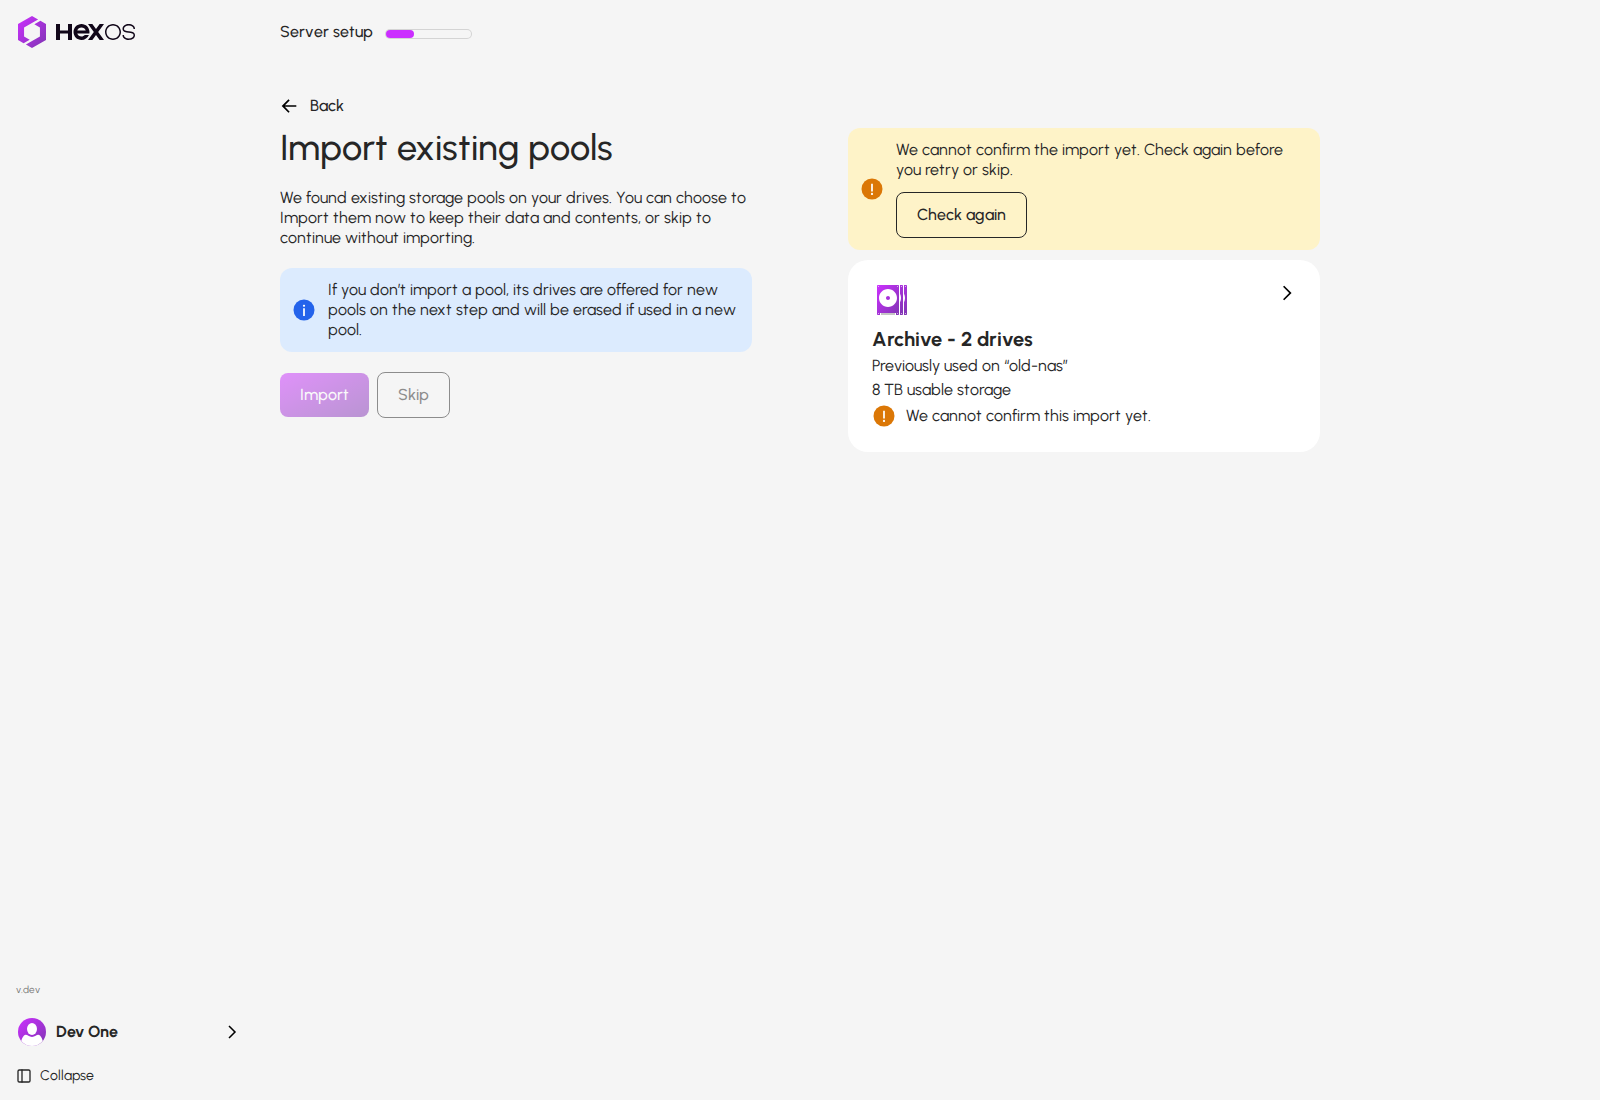
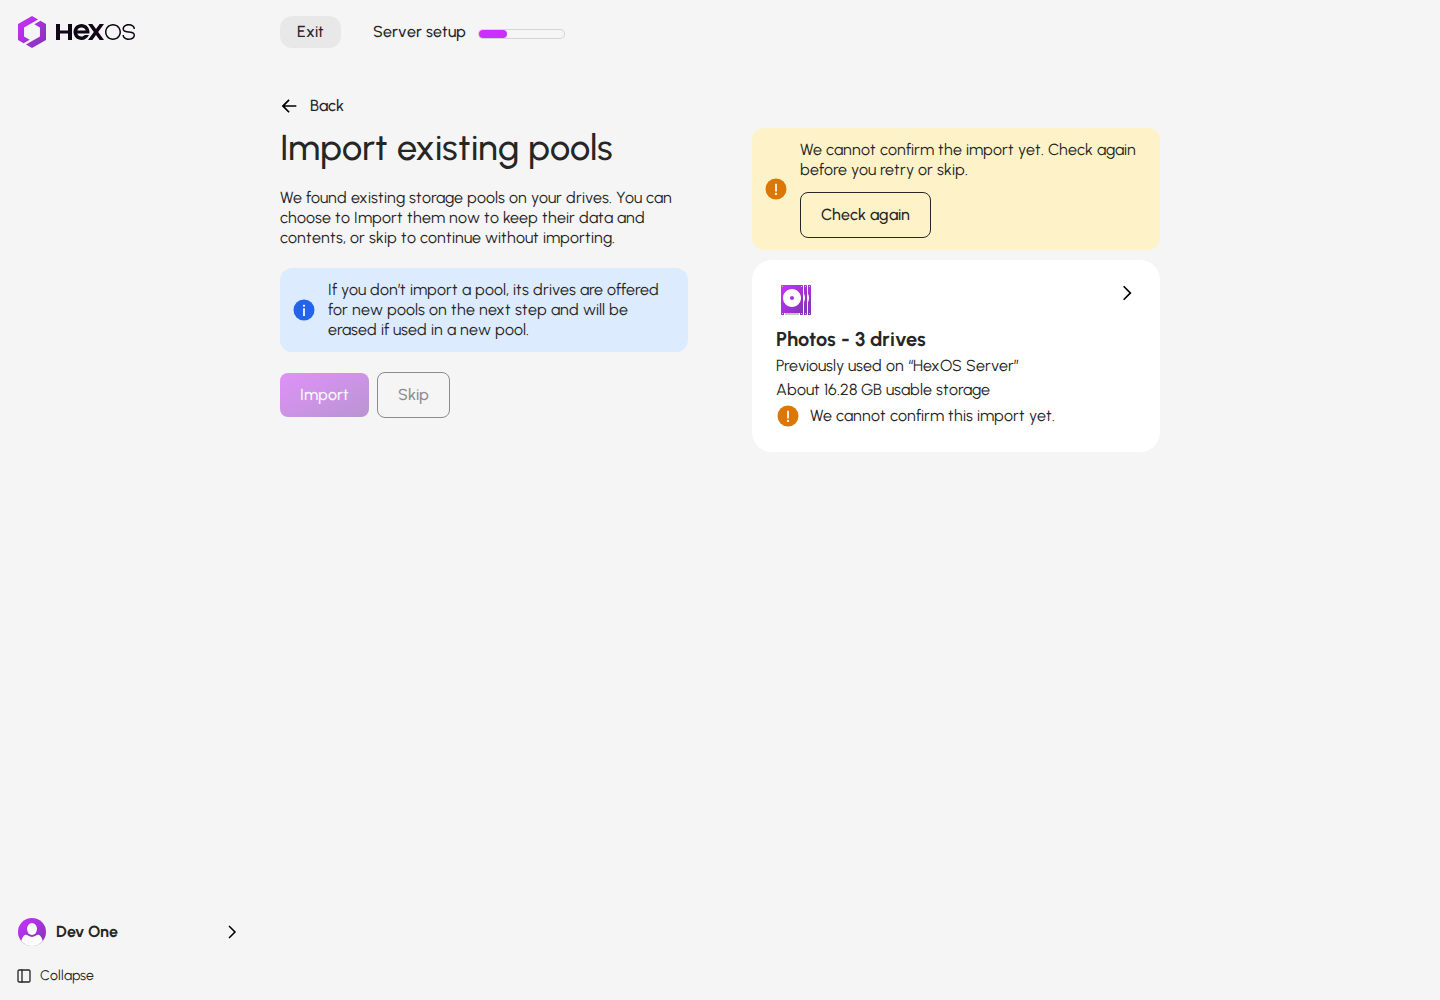
docs: align recovery and pool import guides with released fixes

diff --git a/features/folders/encryption.md b/features/folders/encryption.md
@@ -2,7 +2,7 @@
 title: Encrypted folders
 description: What folder encryption protects, how the key is kept, locking, unlocking and restoring encrypted folders
 published: true
-date: 2026-10-13T00:00:00.000Z
+date: 2026-11-17T21:30:00.000Z
 tags: folders, encryption
 editor: markdown
 dateCreated: 2026-10-07T00:00:00.000Z
@@ -18,8 +18,14 @@ When managed encryption is available for your signed-in HexOS account, the folde
 
 Each encrypted folder uses one of two ways to keep its key:
 
-- **Autogenerated (recommended):** "HexOS keeps a copy of the key that only your sign-in can open." With **End-to-end encryption**, that copy also needs your recovery key. The folder unlocks by itself when your server starts.
+- **Autogenerated (recommended):** the folder unlocks by itself when your server starts. With **Managed** recovery, your HexOS sign-in can open the saved key copy. With **End-to-end encryption**, only your recovery key can open that copy. Keep your emergency kit safe.
 - **Passphrase:** "Enter it after every restart. If it's lost, nobody can open the folder." You choose a passphrase of at least 8 characters.
+
+<details>
+<summary> Autogenerated encryption when you keep the recovery key </summary>
+
+![encryption-owner-kept-key.png](/features/folders/images/encryption-owner-kept-key.png){.medium .framed}
+</details>
 
 A folder can also be left unencrypted (**Don't encrypt**). The choice says **Leave encryption off for this folder**. An unencrypted folder can only back up to your own servers.
 
@@ -163,7 +169,7 @@ Folders encrypted before autogenerated keys existed use a passphrase, just like 
 
 ## Restore an encrypted folder
 
-**From a backup.** A restored encrypted folder arrives locked. With an autogenerated key it unlocks by itself while you are signed in. With a passphrase, HexOS asks for it. If you keep the server's recovery key yourself, HexOS asks for it once. The steps are in [Restore a folder](/features/backups/restore-a-folder#unlocking-the-restored-folder).
+**From a backup.** A restored encrypted folder arrives locked. With an autogenerated key and **Managed** recovery, it normally unlocks while you are signed in. If you kept the original server's recovery key yourself, have its emergency kit ready. HexOS asks for a recovery key or a passphrase if it needs one. The steps are in [Restore a folder](/features/backups/restore-a-folder#unlocking-the-restored-folder).
 
 **After reinstalling HexOS or importing a pool.** When HexOS finds folders on your pools that are not set up in HexOS yet, the **Folders** screen shows **Found 2 folder(s) on your pools** (with your number) and a **Restore folders** button.
 
@@ -175,7 +181,7 @@ Folders encrypted before autogenerated keys existed use a passphrase, just like 
 
 1. Click **Restore folders**.
 2. Each locked folder shows what it needs:
-    - A folder with an autogenerated key says it is **Encrypted and locked**, and it unlocks with your HexOS account when you restore it. There is nothing to type. If you keep your recovery key yourself, HexOS asks for it once (see [When HexOS asks for a recovery key](/features/folders/recovery-key#when-hexos-asks-for-a-recovery-key)).
+    - A folder with an autogenerated key says it is **Encrypted and locked**, and it unlocks when you restore it. If you kept the original server's recovery key yourself, have that server's emergency kit ready. HexOS asks for its recovery key if needed (see [When HexOS asks for a recovery key](/features/folders/recovery-key#when-hexos-asks-for-a-recovery-key)).
     - A folder with a passphrase says it is **Encrypted and locked** and asks for the passphrase. Typing it selects the folder.
     - A folder encrypted with a key file made in TrueNAS says it **Cannot be restored**, because its key was stored on the previous system. Unlock it in TrueNAS with the key you exported, as described in [Import pools to HexOS](/troubleshooting/migrating/import-existing-pools) under "Import keys for encrypted data".
 3. Check that each folder you want to restore is selected, then click **Restore**.

diff --git a/features/backups/restore-a-folder.md b/features/backups/restore-a-folder.md
@@ -2,7 +2,7 @@
 title: Restore a folder
 description: Bring a backed-up folder back onto your server as a new folder, from the latest copy or any restore point
 published: true
-date: 2026-11-15T00:00:00.000Z
+date: 2026-11-17T21:30:00.000Z
 tags: backups, buddy, restore, passphrase
 editor: markdown
 dateCreated: 2026-08-23T12:07:27.379Z
@@ -25,7 +25,7 @@ Only you can restore your own backups. The buddy who stores your copy cannot ope
 - The pool you restore to needs room for the whole folder.
 - If the folder uses a passphrase, have it ready. The restore cannot finish without it.
 
-> **Info:** If HexOS manages your folder keys, restored folders unlock on their own while you are signed in. See [Recovery keys](/features/folders#recovery-keys).
+> **Info:** For an autogenerated folder key, HexOS can open the saved copy with your sign-in when recovery is **Managed**. If you kept the original server's recovery key yourself, have its emergency kit ready. See [Recovery key and emergency kit](/features/folders/recovery-key).
 {.is-info}
 
 ## Start a restore
@@ -94,7 +94,7 @@ You can also start from the original folder's page. Open its **Backups** tab, op
 
 A restored encrypted folder arrives locked.
 
-**Key managed by HexOS:** the folder unlocks on its own while you are signed in. If it cannot unlock on its own, the restore says **Couldn't unlock automatically.** Click **Continue**.
+**Autogenerated key:** with **Managed** recovery, the folder normally unlocks while you are signed in. The restore may say **Couldn't unlock automatically.** Click **Continue** if it does.
 
 <details>
 <summary> Continue when automatic unlocking needs your help </summary>
@@ -102,7 +102,7 @@ A restored encrypted folder arrives locked.
 ![restore-managed-continue.png](/features/backups/images/restore-managed-continue.png){.medium .framed}
 </details>
 
-In **Continue the restore**, click **Continue restore**. HexOS uses your signed-in account to unlock the copy. You do not need to type a folder passphrase.
+In **Continue the restore**, click **Continue restore**. HexOS asks if it needs a recovery key or a passphrase. If **Recovery key needed** appears, use the emergency kit for the server named in the prompt. Follow [When HexOS asks for a recovery key](/features/folders/recovery-key#when-hexos-asks-for-a-recovery-key).
 
 <details>
 <summary> Confirm that HexOS should finish the restore </summary>
@@ -130,7 +130,15 @@ To finish a restore that is waiting:
 </details>
 
 
-If the passphrase is wrong, the restore stays locked. If the dialog closes, click **Unlock** again to retry. If you cannot find it, click **Discard restore**, then **Discard restore** again in "Discard this restore?". That removes the locked copy from your server; anything left behind shows under **Restores needing attention**. The backup itself stays, so you can restore again later.
+If the passphrase is wrong, the restore stays locked. The dialog stays open, clears the passphrase field and shows **That passphrase didn't unlock the folder. Try again.** Type the correct passphrase and click **Unlock and finish** again.
+
+<details>
+<summary> Try again after a rejected passphrase </summary>
+
+![restore-passphrase-rejected.png](/features/backups/images/restore-passphrase-rejected.png){.medium .framed}
+</details>
+
+If you cannot find the passphrase, close the dialog. Click **Discard restore**, then **Discard restore** again in "Discard this restore?". That removes the locked copy from your server; anything left behind shows under **Restores needing attention**. The backup itself stays, so you can restore again later.
 
 <details>
 <summary> Discard a restore whose main folder is still locked </summary>

diff --git a/troubleshooting/migrating/import-existing-pools.md b/troubleshooting/migrating/import-existing-pools.md
@@ -2,7 +2,7 @@
 title: Import Existing Pools to HexOS
 description: For migrating from TrueNAS or reinstalling HexOS without wiping pools
 published: true
-date: 2026-10-13T00:00:00.000Z
+date: 2026-11-17T21:30:00.000Z
 tags: 
 editor: markdown
 dateCreated: 2026-06-22T12:46:47.046Z
@@ -698,7 +698,7 @@ You should now see your new share on the list
 
 Please note that, as of writing, this folder needs to be locked and unlocked via the TrueNAS interface. 
 
-When unlocked, the data will be accessible via HexOS. If a folder encrypted with a key made in TrueNAS is locked, it cannot be unlocked within HexOS: unlock it in TrueNAS with its key file. Folders made in HexOS are different: a folder with an **Autogenerated** key unlocks with your HexOS account, and a folder with a passphrase unlocks with its passphrase (see [Restore folders HexOS finds on your pools](#restore-folders-hexos-finds-on-your-pools)).
+When unlocked, the data will be accessible via HexOS. If a folder encrypted with a key made in TrueNAS is locked, it cannot be unlocked within HexOS: unlock it in TrueNAS with its key file. Folders made in HexOS are different: a folder with an **Autogenerated** key may need the original server's recovery key if you kept it yourself. A folder with a passphrase needs its passphrase (see [Restore folders HexOS finds on your pools](#restore-folders-hexos-finds-on-your-pools)).
 
 ### Set apps pool correctly (if necessary)
 
@@ -874,7 +874,7 @@ If your pools hold folders that are not set up in HexOS yet (for example, becaus
 
 Click **Restore folders**. In the dialog, encrypted folders that are locked show what they need:
 
-- A folder with an **Autogenerated** key unlocks with your HexOS account when you restore it. There is nothing to type. If you keep your recovery key yourself, HexOS asks for it once (see [When HexOS asks for a recovery key](/features/folders/recovery-key#when-hexos-asks-for-a-recovery-key)).
+- A folder with an **Autogenerated** key unlocks when you restore it. If you kept the original server's recovery key yourself, have that server's emergency kit ready. HexOS asks for its recovery key if needed (see [When HexOS asks for a recovery key](/features/folders/recovery-key#when-hexos-asks-for-a-recovery-key)).
 - A folder with a passphrase asks for it. Typing it selects the folder.
 - A folder encrypted with a key file made in TrueNAS **Cannot be restored** here, because its key was stored on the previous system. Unlock it in TrueNAS first, as described in "Import keys for encrypted data and set up SMB share (if necessary)" above.
 

diff --git a/features/folders/create-a-new-folder.md b/features/folders/create-a-new-folder.md
@@ -2,7 +2,7 @@
 title: Create a new folder
 description: Choose a folder location, access rules, storage options and encryption.
 published: true
-date: 2026-10-07T00:00:00.000Z
+date: 2026-11-17T21:30:00.000Z
 tags:
 editor: markdown
 dateCreated: 2026-06-08T15:40:20.899Z
@@ -100,9 +100,15 @@ Turn on **Enable Time Machine** if this folder will receive Mac backups. If you 
 
 With managed encryption available for your signed-in HexOS account, **Autogenerated (recommended)** is selected. Check the available choices before continuing:
 
-- **Autogenerated (recommended):** "HexOS keeps a copy of the key that only your sign-in can open." With **End-to-end encryption**, that copy also needs your recovery key. The folder unlocks by itself when your server starts, and there is nothing to remember.
+- **Autogenerated (recommended):** the folder unlocks by itself when your server starts. With **Managed** recovery, your HexOS sign-in can open the saved key copy. With **End-to-end encryption**, only your recovery key can open that copy. Keep your emergency kit safe.
 - **Passphrase:** "Enter it after every restart. If it's lost, nobody can open the folder." Type a passphrase of at least 8 characters in **Passphrase** and again in **Confirm passphrase**.
 - **Don't encrypt:** **Leave encryption off for this folder**. The folder cannot be backed up to another person's server until you encrypt it.
+
+<details>
+<summary> Autogenerated encryption when you keep the recovery key </summary>
+
+![encryption-owner-kept-key.png](/features/folders/images/encryption-owner-kept-key.png){.medium .framed}
+</details>
 
 <details>
 <summary> Encryption step with Autogenerated selected </summary>

diff --git a/getting-started/setup/CompleteSetup.md b/getting-started/setup/CompleteSetup.md
@@ -2,7 +2,7 @@
 title: Complete server setup
 description: Log in, find your server, check its hardware, choose how to use your drives and finish setup
 published: true
-date: 2026-10-13T00:00:00.000Z
+date: 2026-11-17T21:30:00.000Z
 tags: setup, storage, pools, getting started
 editor: markdown
 dateCreated: 2026-06-08T15:41:10.493Z
@@ -193,6 +193,14 @@ You only see this screen when your drives already hold storage pools. It lists t
 
 - **Pools from another server**, for example drives you moved from an older server. Their cards say **Previously used on** and the other server's name.
 - **Pools already on this server**, for example after you reset HexOS, or on a server that ran TrueNAS before. Their cards say **Already on this server**.
+
+A pool that is not imported yet shows an estimate, such as **About 16.28 GB usable storage**. The final usable size is read after import, so it may differ from the estimate. If HexOS cannot estimate it, the card says **Size shown after import**.
+
+<details>
+<summary> A pool whose size will be shown after import </summary>
+
+![import-size-unknown.png](/complete-setup/import-size-unknown.png){.medium .framed}
+</details>
 
 ### Pools from another server
 
